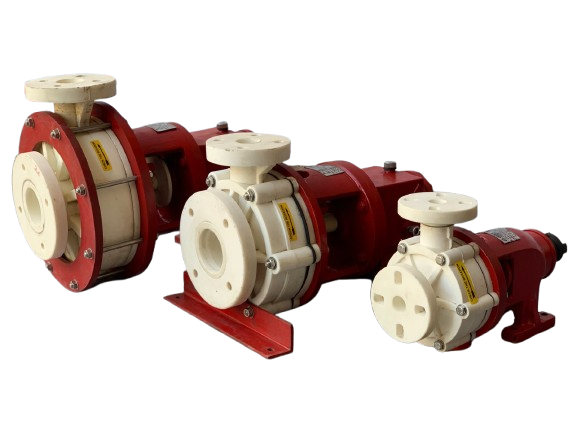
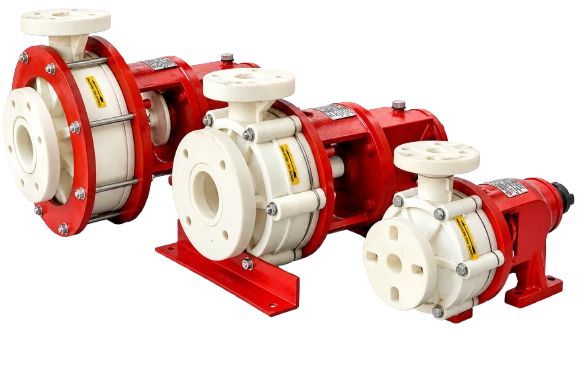
rename amtmd image

diff --git a/css/style.css b/css/style.css
@@ -81,6 +81,7 @@ h2{font-size:clamp(42px,4.5vw,68px);line-height:.95;margin-top:18px}
 .product-number{position:absolute;left:20px;top:18px;font-size:24px;color:#aaa;z-index:2}
 .product-image-wrap{background:#f7f7f6;min-height:333px;display:flex;align-items:center;justify-content:center;padding-top: 20px;}
 .product-image-wrap img{width:100%;height:300px;object-fit:contain}
+.product-image-wrap img.amtd-alt{width:100%;height:265px;object-fit:contain}
 .product-content{padding:0px 28px 30px}
 .product-tag{font-size:10px;font-weight:800;letter-spacing:2px;color:var(--maroon)}
 .product-content h3{font-size:38px;line-height:.95;margin:10px 0 14px}

diff --git a/index.html b/index.html
@@ -234,9 +234,9 @@
       <article class="product-card magnetic-card reveal">
         <div class="product-number">02</div>
         <div class="product-image-wrap">
-          <img src="images/pp-products/AMTD.png"
+          <img src="images/pp-products/AMTD-alt.png"
                alt="AMTMD Series Magnetic Drive Polypropylene Pump"
-               loading="lazy">
+               loading="lazy" class="amtd-alt">
         </div>
         <div class="product-content">
           <span class="product-tag">AMTMD SERIES</span>

diff --git a/amtmd-series-magnetic-drive-polypropylene-pump.html b/amtmd-series-magnetic-drive-polypropylene-pump.html
@@ -392,7 +392,7 @@
 
 
                 <img
-                    src="images/pp-products/AMTD-alt.png"
+                    src="images/pp-products/AMTD.png"
                     alt="AMTMD Series Magnetic Drive Polypropylene Pump"
                     loading="eager" class="amtmd">
 
